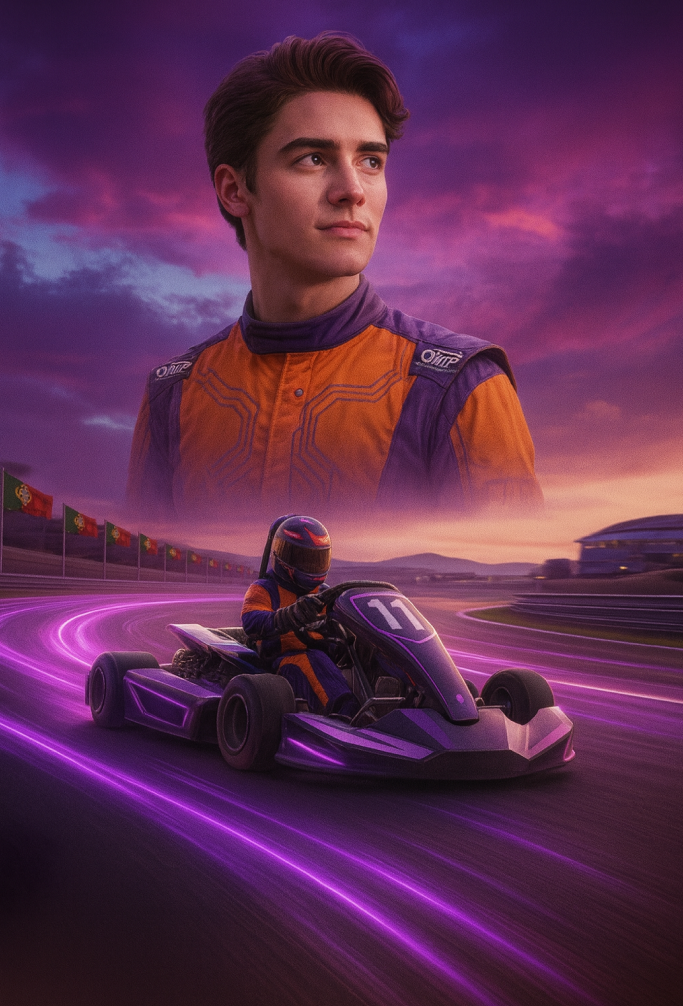
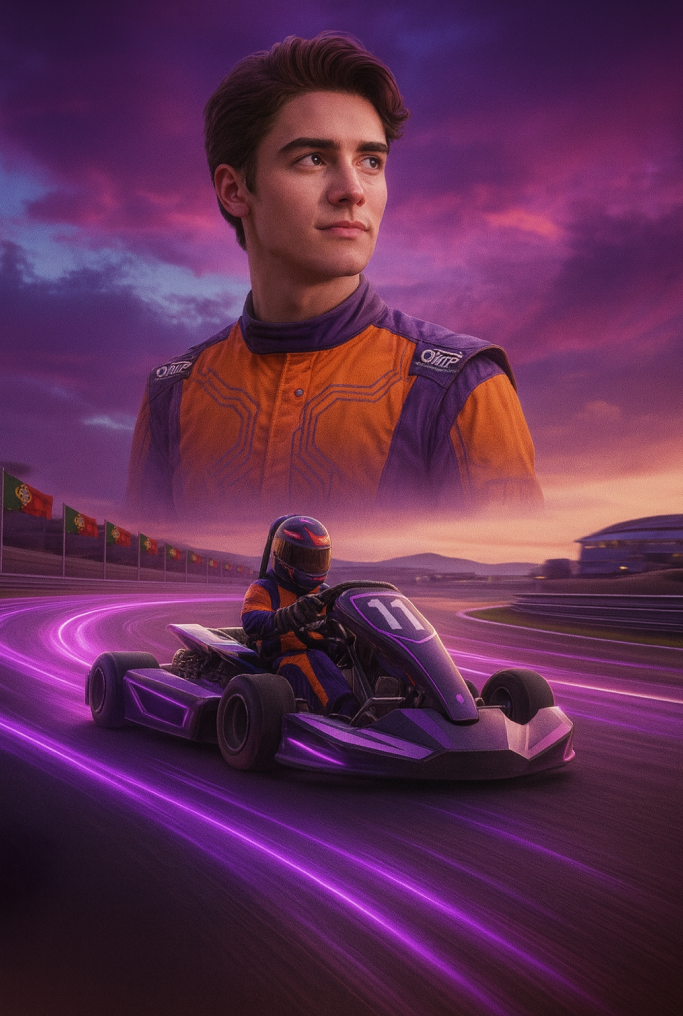
male1

diff --git a/app/comcon/iqos2025/style/page.js b/app/comcon/iqos2025/style/page.js
@@ -39,7 +39,8 @@ export default function Register() {
                 // localStorage.setItem("formasiFix", character)
                 localStorage.setItem("formasiFix", 'MALE')
             }
-            urlGambar = 'https://ai.zirolu.id/iqos/cmcn-male-'+randomGambar+'.png';
+            // urlGambar = 'https://ai.zirolu.id/iqos/cmcn-male-'+randomGambar+'.png';
+            urlGambar = 'https://ai.zirolu.id/iqos/cmcn-male-1.png';
         }else{
             if(!hijab){
                 if (typeof localStorage !== 'undefined') {
